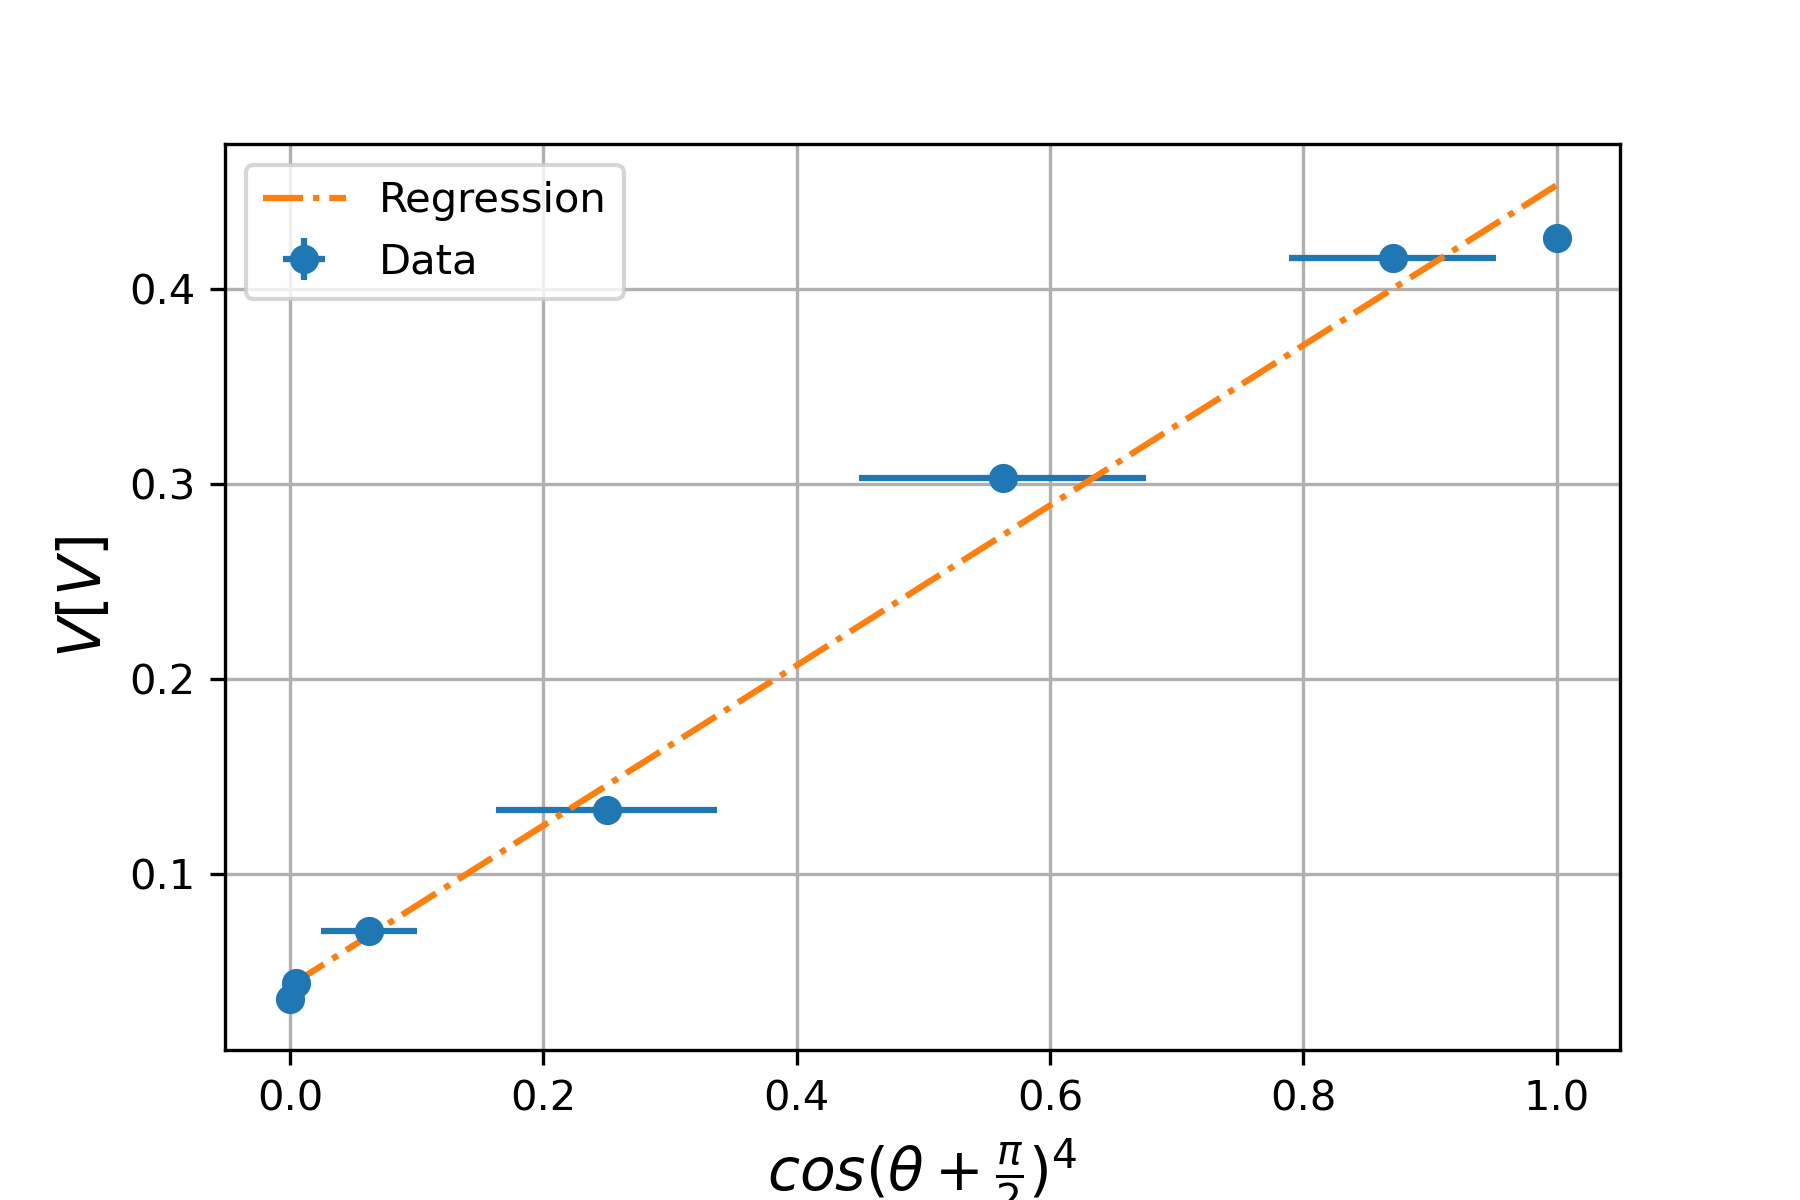
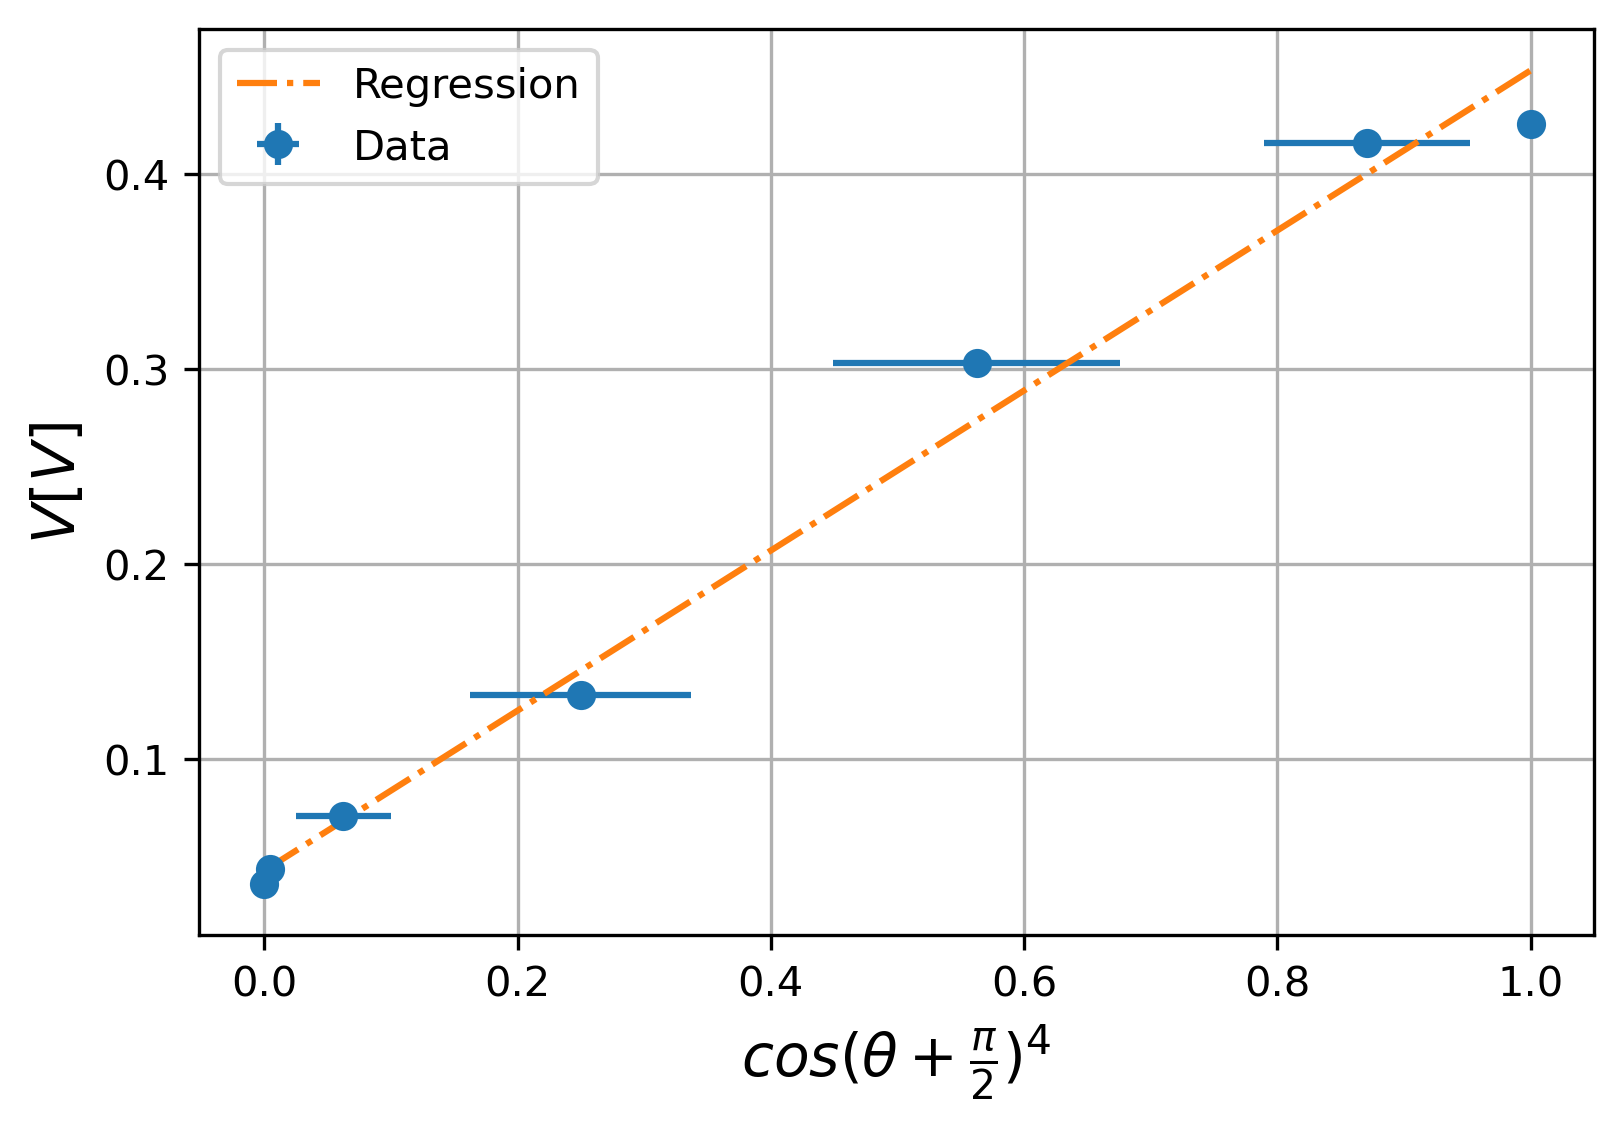
final draft

diff --git a/exp4 - micro/macro.py b/exp4 - micro/macro.py
@@ -181,7 +181,7 @@ plt.show()
 
 for fig in fig_array:
     fname =str( "fig/plot" + str(fig_array.index(fig) + 7))
-    fig.savefig(fname)
+    fig.savefig(fname,bbox_inches='tight')
 
 
 
